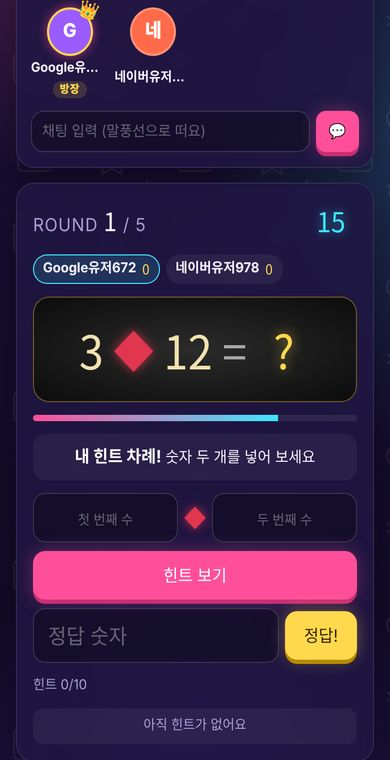
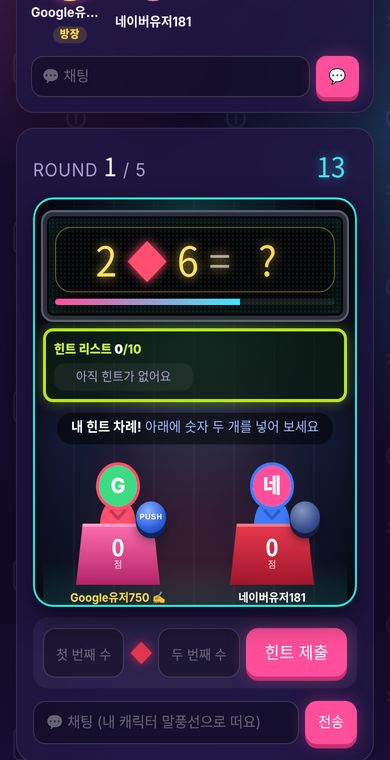
미스터리 사인: 세트장 구조 재구성 (전광판·힌트리스트·단상·버저 5초 정답창·10초 잠금·채팅)
Claude-Session: https://claude.ai/code/session_018kcaK1YQGkv4UBC623yDa1

diff --git a/js/games/mystery.js b/js/games/mystery.js
@@ -5,6 +5,8 @@
 // - 난이도(보통·어려움·너무 어려움)는 라운드마다 무작위
 // - 방장이 정한 라운드(5~10) 후 1등 가넷 3개, 2등 1개
 import { soundEvent } from '../sound.js';
+import { personHtml } from './face.js';
+import { chatFormHtml, bindChat } from './sit.js';
 import { GARNET } from '../profile.js';
 import { getRule, pickRule, pickTarget, apply, LEVELS } from './mystery-rules.js';
 
@@ -13,7 +15,10 @@ const MAX_HINTS = 10;      // 라운드당 최대 힌트 수
 const FINAL_MS = 30000;    // 힌트를 다 쓴 뒤 마지막으로 맞힐 시간
 const REVEAL_MS = 6000;    // 정답 공개 시간
 const REWARDS = [3, 1];    // 1등 가넷 3개, 2등 1개 (1점 이상일 때)
-const MAX_DIGITS = 9;      // 힌트 숫자: 0 ~ 999,999,999 (1억대까지)
+const MAX_DIGITS = 9;
+const BUZZ_MS = 5000;      // 버저를 누른 뒤 정답을 쓸 시간
+const LOCK_MS = 10000;     // 시간 안에 못 쓰면 10초 동안 버저 금지
+const COLORS = ['#ff4f6e', '#3d7bff', '#3ddc84', '#ffb02e'];      // 힌트 숫자: 0 ~ 999,999,999 (1억대까지)
 
 const esc = (s) => String(s ?? '').replace(/[&<>"']/g, (c) => ({ '&': '&amp;', '<': '&lt;', '>': '&gt;', '"': '&quot;', "'": '&#39;' }[c]));
 const SIGN = '<span class="ms-sign">◆</span>';
@@ -34,12 +39,14 @@ function newRound(state, roundNo, now) {
     finalDeadline: 0,
     wrong: [],
     winner: '',
+    buzz: null,
+    locks: {},
     usedRules: [...state.usedRules, rule.id],
   };
 }
 
 function endRound(state, now, winner = '') {
-  return { ...state, phase: 'reveal', winner, revealUntil: now + REVEAL_MS, turnIdx: -1 };
+  return { ...state, buzz: null, phase: 'reveal', winner, revealUntil: now + REVEAL_MS, turnIdx: -1 };
 }
 
 function nextTurn(state, now) {
@@ -55,6 +62,34 @@ export function rank(order, scores) {
       const place = 1 + all.filter((o) => o.score > r.score).length;
       return { ...r, place, garnets: r.score > 0 ? REWARDS[place - 1] || 0 : 0 };
     });
+}
+
+// 버저 정답 창
+let pop = null;
+function buzzPop(buzz, sendMove) {
+  if (typeof document === 'undefined') return;
+  if (!buzz) { if (pop) { pop.el.remove(); clearInterval(pop.iv); pop = null; } return; }
+  if (pop && pop.at === buzz.at) return;
+  pop?.el.remove(); clearInterval(pop?.iv);
+  const $p = document.createElement('div');
+  $p.className = 'ms-pop';
+  $p.innerHTML = `<form class="ms-popbox"><div class="ms-poph">🚨 정답을 입력하세요!</div>
+    <div class="ms-popt"><b data-pt>5</b><div class="nb-bar"><i data-pb></i></div></div>
+    <input inputmode="numeric" placeholder="정답 숫자" autocomplete="off" enterkeyhint="send">
+    <button class="btn gold-btn block">정답!</button></form>`;
+  document.body.appendChild($p);
+  pop = { at: buzz.at, el: $p, iv: 0 };
+  const $in = $p.querySelector('input');
+  setTimeout(() => $in.focus({ preventScroll: true }), 30);
+  $in.oninput = () => { $in.value = $in.value.replace(/[^0-9-]/g, ''); };
+  let done = false;
+  $p.querySelector('form').onsubmit = (e) => { e.preventDefault(); const v = $in.value.trim(); if (!v || done) return; done = true; sendMove({ type: 'answer', n: v }); };
+  const $t = $p.querySelector('[data-pt]'), $b = $p.querySelector('[data-pb]');
+  pop.iv = setInterval(() => {
+    const left = Math.max(0, buzz.until - Date.now());
+    $t.textContent = Math.ceil(left / 1000); $b.style.width = `${(left / BUZZ_MS) * 100}%`;
+    if (left <= 0 && !done) { done = true; clearInterval(pop?.iv); $p.remove(); pop = null; sendMove({ type: 'buzzout' }, { silent: true }); }
+  }, 100);
 }
 
 // 다시 그려도 입력하던 값과 커서가 유지되도록
@@ -77,7 +112,8 @@ export default {
   rules: [
     '라운드마다 "X ◆ Y = ?" 문제가 나와요. ◆는 숨겨진 규칙이에요.',
     `차례가 되면 숫자 두 개(0 ~ 999,999,999)를 입력해요. 그 숫자에 ◆를 적용한 결과가 모두에게 힌트로 공개돼요. (차례당 ${HINT_MS / 1000}초)`,
-    '정답은 자기 차례가 아니어도 언제든 낼 수 있어요.',
+    '정답은 자기 차례가 아니어도 언제든 낼 수 있어요. 내 단상의 버저를 누르면 5초 동안 정답을 쓸 수 있어요. (한 번에 한 명만)',
+    '5초 안에 정답을 내지 못하면 10초 동안 버저를 누를 수 없어요.',
     '정답 +1점, 오답 −1점! 틀려도 그 라운드에서 다시 도전할 수 있어요.',
     '문제 난이도(보통 · 어려움 · 너무 어려움)는 라운드마다 무작위로 나와요.',
     `힌트가 ${MAX_HINTS}개 나온 뒤 ${FINAL_MS / 1000}초 안에 아무도 못 맞히면 라운드가 끝나요.`,
@@ -109,8 +145,23 @@ export default {
       return { state: nextTurn(next, now) };
     }
 
+    const buzzLive = state.buzz && now < state.buzz.until + 800;
+    if (move?.type === 'buzz') {
+      if (state.phase !== 'play' || !state.order.includes(uid)) throw new Error('지금은 버저를 누를 수 없어요');
+      if (buzzLive) throw new Error(state.buzz.uid === uid ? '__noop' : '다른 사람이 먼저 눌렀어요!');
+      if ((state.locks?.[uid] || 0) > now) throw new Error(`${Math.ceil((state.locks[uid] - now) / 1000)}초 뒤에 다시 누를 수 있어요`);
+      return { state: { ...state, buzz: { uid, at: now, until: now + BUZZ_MS } } };
+    }
+    if (move?.type === 'buzzout') {
+      // 시간 초과: 창을 닫고 10초 동안 버저 금지
+      if (!state.buzz || (state.buzz.uid !== uid && now < state.buzz.until + 1500)) throw new Error('__noop');
+      if (state.buzz.uid === uid && now < state.buzz.until - 300) throw new Error('__noop');
+      return { state: { ...state, buzz: null, locks: { ...state.locks, [state.buzz.uid]: now + LOCK_MS } } };
+    }
+
     if (move?.type === 'answer') {
       if (state.phase !== 'play') throw new Error('지금은 정답을 낼 수 없어요');
+      if (!buzzLive || state.buzz.uid !== uid) throw new Error('버저를 먼저 눌러 주세요');
       const raw = String(move.n ?? '').trim();
       if (!/^-?\d{1,30}$/.test(raw)) throw new Error('숫자를 입력해 주세요');
       const n = BigInt(raw).toString();
@@ -120,11 +171,12 @@ export default {
         return { state: endRound({ ...state, scores }, now, uid) };
       }
       scores[uid] -= 1; // 틀려도 라운드는 잠기지 않아요
-      return { state: { ...state, scores, wrong: [...state.wrong, { uid, n, t: Date.now() }].slice(-6) } };
+      return { state: { ...state, buzz: null, scores, wrong: [...state.wrong, { uid, n, t: Date.now() }].slice(-6) } };
     }
 
     if (move?.type === 'tick') {
       if (state.phase === 'play') {
+        if (state.buzz && now >= state.buzz.until + 1500) return { state: { ...state, buzz: null, locks: { ...state.locks, [state.buzz.uid]: now + LOCK_MS } } };
         if (state.turnIdx >= 0 && now >= state.turnDeadline) {
           return { state: { ...state, turnIdx: (state.turnIdx + 1) % state.order.length, turnDeadline: now + HINT_MS } };
         }
@@ -181,63 +233,76 @@ export default {
     }
 
     const rule = getRule(state.ruleId);
-    const scoreChips = state.order.map((u) => `
-      <span class="ms-chip ${u === me ? 'me' : ''} ${u === turnUid ? 'turn' : ''}">
-        <b>${name(u)}</b><i>${state.scores[u]}</i>
-      </span>`).join('');
+    const now0 = Date.now();
+    const buzz = state.buzz && now0 < state.buzz.until + 800 ? state.buzz : null;
+    if (room && buzz) soundEvent(room.code, `ms:bz:${buzz.at}`, 'buzzer');
 
     let status = '';
-    if (state.phase === 'reveal') {
-      status = state.winner
-        ? `<b>${name(state.winner)}</b>님 정답! <span class="gold">+1점</span>`
-        : '아무도 맞히지 못했어요';
-    } else if (state.turnIdx < 0) {
-      status = '힌트를 모두 썼어요! 마지막으로 정답을 맞혀 보세요';
-    } else {
-      status = myTurn ? '<b>내 힌트 차례!</b> 숫자 두 개를 넣어 보세요' : `<b>${name(turnUid)}</b>님이 힌트를 고르는 중…`;
-    }
+    if (state.phase === 'reveal') status = state.winner ? `<b>${name(state.winner)}</b>님 정답! <span class="gold">+1점</span>` : '아무도 맞히지 못했어요';
+    else if (buzz) status = `🚨 <b>${name(buzz.uid)}</b>님이 버저를 눌렀어요!`;
+    else if (state.turnIdx < 0) status = '힌트를 모두 썼어요! 버저를 눌러 정답을 맞혀 보세요';
+    else status = myTurn ? '<b>내 힌트 차례!</b> 아래에 숫자 두 개를 넣어 보세요' : `<b>${name(turnUid)}</b>님이 힌트를 제출하고 있습니다`;
+
+    const lastWrong = state.wrong[state.wrong.length - 1];
+    const podium = (u, i) => {
+      const lock = Math.max(0, (state.locks?.[u] || 0) - now0);
+      const mine = u === me && isPlayer && state.phase === 'play';
+      const can = mine && !buzz && !lock;
+      const wrongNow = lastWrong && lastWrong.uid === u && now0 - lastWrong.t < 2500;
+      return `<div class="ms-p ${u === me ? 'me' : ''} ${u === turnUid ? 'turn' : ''} ${buzz?.uid === u ? 'buzzing' : ''} ${state.winner === u && state.phase === 'reveal' ? 'win' : ''}">
+        <span class="seat-bubble" data-bub="${esc(u)}"></span>
+        <div class="ms-person">${personHtml(COLORS[i % COLORS.length], players[u] || { name: '?' })}</div>
+        <div class="ms-podium"><b>${state.scores[u]}</b><small>점</small>${wrongNow ? '<em class="ms-x">✖ 오답</em>' : ''}</div>
+        <button class="ms-buzzer ${can ? 'can' : ''} ${buzz?.uid === u ? 'on' : ''} ${lock ? 'lock' : ''}" ${mine ? 'data-buzz' : 'disabled tabindex="-1"'} aria-label="버저">
+          <i></i>${lock && mine ? `<small data-lock="${state.locks[u]}">${Math.ceil(lock / 1000)}</small>` : can ? '<small>PUSH</small>' : ''}
+        </button>
+        <span class="ms-nm">${name(u)}${u === turnUid ? ' <em>✍</em>' : ''}</span>
+      </div>`;
+    };
 
     el.innerHTML = `
-      <div class="ms">
+      <div class="ms ms2">
         <div class="nb-top">
           <span class="nb-round">ROUND <b>${state.round}</b> / ${state.rounds}</span>
           <span class="nb-timer" data-timer></span>
         </div>
-        <div class="ms-chips">${scoreChips}</div>
-
-        <div class="ms-problem">
-          <span>${state.target[0]}</span>${SIGN}<span>${state.target[1]}</span><span class="ms-eq">=</span>
-          <span class="ms-q ${state.phase === 'reveal' ? 'open' : ''}">${state.phase === 'reveal' ? state.answer : '?'}</span>
+        <div class="ms-set">
+          <div class="ms-top">
+            <div class="ms-screen">
+              <div class="ms-problem">
+                <span>${state.target[0]}</span>${SIGN}<span>${state.target[1]}</span><span class="ms-eq">=</span>
+                <span class="ms-q ${state.phase === 'reveal' ? 'open' : ''}">${state.phase === 'reveal' ? state.answer : '?'}</span>
+              </div>
+              ${state.phase === 'reveal' ? `<div class="ms-rule"><span class="ms-level lv${rule?.level}">${LEVELS[rule?.level] || ''}</span> ◆ = ${esc(rule?.desc || '')}</div>` : ''}
+              <div class="nb-bar"><i data-bar></i></div>
+            </div>
+            <div class="ms-hintbox">
+              <div class="ms-hints-title">힌트 리스트 <b>${state.hints.length}</b>/${MAX_HINTS}</div>
+              <ul class="ms-hints">
+                ${state.hints.length ? state.hints.slice().reverse().map((h) => `
+                  <li><span class="ms-eqn">${h.a} ${SIGN} ${h.b} = <b>${h.c}</b></span><small>${name(h.by)}</small></li>`).join('')
+                  : '<li class="empty">아직 힌트가 없어요</li>'}
+              </ul>
+            </div>
+          </div>
+          <div class="ms-status">${status}</div>
+          <div class="ms-stage n${state.order.length}">${state.order.map(podium).join('')}</div>
         </div>
-        ${state.phase === 'reveal' ? `<div class="ms-rule"><span class="ms-level lv${rule?.level}">${LEVELS[rule?.level] || ''}</span> ◆ = ${esc(rule?.desc || '')}</div>` : ''}
-
-        <div class="nb-bar"><i data-bar></i></div>
-        <div class="nb-banner"><span>${status}</span></div>
 
         ${isPlayer && state.phase === 'play' ? `
-          <div class="ms-actions">
-            ${myTurn ? `
-              <form class="ms-hint" data-form="hint">
-                <div class="ms-hint-row">
-                  <input data-key="ha" inputmode="numeric" maxlength="${MAX_DIGITS}" placeholder="첫 번째 수" aria-label="첫 번째 숫자">
-                  ${SIGN}
-                  <input data-key="hb" inputmode="numeric" maxlength="${MAX_DIGITS}" placeholder="두 번째 수" aria-label="두 번째 숫자">
-                </div>
-                <button class="btn primary block">힌트 보기</button>
-              </form>` : ''}
-            <form class="ms-answer" data-form="answer">
-              <input data-key="ans" inputmode="numeric" placeholder="정답 숫자" aria-label="정답">
-              <button class="btn gold-btn">정답!</button>
-            </form>
-          </div>` : ''}
-
-        <div class="ms-hints-title">힌트 ${state.hints.length}/${MAX_HINTS}${state.wrong.length ? ` · <span class="nb-dupe">오답: ${state.wrong.map((w) => `${name(w.uid)} ${esc(w.n)}`).join(', ')}</span>` : ''}</div>
-        <ul class="ms-hints">
-          ${state.hints.length ? state.hints.slice().reverse().map((h) => `
-            <li><span class="ms-eqn">${h.a} ${SIGN} ${h.b} = <b>${h.c}</b></span><small>${name(h.by)}</small></li>`).join('')
-            : '<li class="empty">아직 힌트가 없어요</li>'}
-        </ul>
+          <form class="ms-hint ${myTurn ? '' : 'off'}" data-form="hint">
+            <div class="ms-hint-row">
+              <input data-key="ha" inputmode="numeric" maxlength="${MAX_DIGITS}" placeholder="첫 번째 수" aria-label="첫 번째 숫자" ${myTurn ? '' : 'disabled'}>
+              ${SIGN}
+              <input data-key="hb" inputmode="numeric" maxlength="${MAX_DIGITS}" placeholder="두 번째 수" aria-label="두 번째 숫자" ${myTurn ? '' : 'disabled'}>
+              <button class="btn primary" ${myTurn ? '' : 'disabled'}>힌트 제출</button>
+            </div>
+            ${myTurn ? '' : `<small>${turnUid ? `${name(turnUid)}님의 힌트 차례예요` : '힌트를 모두 썼어요'}</small>`}
+          </form>` : ''}
+        ${state.wrong.length ? `<div class="ms-wrongs">오답: ${state.wrong.map((w) => `${name(w.uid)} ${esc(w.n)}`).join(' · ')}</div>` : ''}
+        ${isPlayer ? chatFormHtml() : ''}
       </div>`;
+    bindChat(el);
 
     // 입력값·커서 유지
     el.querySelectorAll('[data-key]').forEach((inp) => {
@@ -245,32 +310,28 @@ export default {
       if (drafts[k] !== undefined) inp.value = drafts[k];
       inp.oninput = () => { inp.value = inp.value.replace(/[^0-9-]/g, ''); drafts[k] = inp.value; };
       inp.onfocus = () => { focusKey = k; };
-      // 화면이 다시 그려져서 사라진 경우가 아니라, 직접 다른 곳을 눌렀을 때만 포커스 기억을 지워요
       inp.onblur = () => setTimeout(() => { if (inp.isConnected && focusKey === k) focusKey = ''; }, 0);
       if (focusKey === k && !inp.disabled) inp.focus();
     });
-
     const $hint = el.querySelector('[data-form="hint"]');
     if ($hint) {
       $hint.onsubmit = (e) => {
         e.preventDefault();
         const a = $hint.querySelector('[data-key="ha"]').value.trim();
         const b = $hint.querySelector('[data-key="hb"]').value.trim();
-        if (a === '' || b === '') return;
+        if (!myTurn || a === '' || b === '') return;
         delete drafts[`${key}:ha`]; delete drafts[`${key}:hb`];
         sendMove({ type: 'hint', a, b });
       };
     }
-    const $ans = el.querySelector('[data-form="answer"]');
-    if ($ans) {
-      $ans.onsubmit = (e) => {
-        e.preventDefault();
-        const v = $ans.querySelector('[data-key="ans"]').value.trim();
-        if (v === '') return;
-        delete drafts[`${key}:ans`];
-        sendMove({ type: 'answer', n: v });
-      };
-    }
+    const $bz = el.querySelector('[data-buzz]');
+    if ($bz) $bz.onclick = () => { if ($bz.classList.contains('can')) sendMove({ type: 'buzz' }); };
+    // 잠금 숫자 줄이기
+    const $lk = el.querySelector('[data-lock]');
+    if ($lk) { const iv = setInterval(() => { if (!$lk.isConnected) return clearInterval(iv); const l = Number($lk.dataset.lock) - Date.now(); if (l <= 0) { clearInterval(iv); this.render(el, arguments[1]); } else $lk.textContent = Math.ceil(l / 1000); }, 250); }
+
+    // 정답 창 (버저 누른 사람에게만, 5초)
+    buzzPop(buzz && buzz.uid === me && state.phase === 'play' ? buzz : null, sendMove);
 
     // 타이머 + 진행 신호
     const $t = el.querySelector('[data-timer]');

diff --git a/css/style.css b/css/style.css
@@ -3405,3 +3405,77 @@ button.dr-seat { cursor: pointer; } button.dr-seat:hover .sit-face { box-shadow:
   .dr-resboard .dr-board { height: 62dvh; width: auto; max-width: none; }
   .dr-tool { height: 50px; } .dr-tool img { width: 30px; height: 30px; }
 }
+
+/* ───────── 미스터리 사인 v2: 서바이벌 세트장 ───────── */
+.ms2 { gap: 10px; }
+.ms-set { position: relative; display: grid; gap: 10px; padding: 14px 10px 0; border-radius: 20px; overflow: hidden;
+  background: radial-gradient(ellipse at 50% 0%, rgba(46, 230, 214, .25), transparent 55%), radial-gradient(ellipse at 50% 120%, rgba(255, 79, 110, .25), transparent 60%),
+    repeating-linear-gradient(90deg, rgba(255, 255, 255, .03) 0 2px, transparent 2px 40px), linear-gradient(180deg, #0a0d1c, #141a33 60%, #0b0e1d);
+  box-shadow: inset 0 0 0 2px #2ee6d6, inset 0 0 40px rgba(0, 0, 0, .7), 0 12px 28px rgba(0, 0, 0, .5); }
+.ms-top { display: grid; grid-template-columns: minmax(0, 1.5fr) minmax(0, 1fr); gap: 8px; align-items: stretch; }
+.ms-screen { display: grid; gap: 6px; align-content: center; padding: 10px 8px; border-radius: 10px; background: #050608; border: 4px solid #2b2f3c;
+  box-shadow: inset 0 0 0 2px #000, inset 0 0 22px rgba(46, 230, 214, .18), 0 0 0 2px #5a6070, 0 6px 14px rgba(0, 0, 0, .6);
+  background-image: radial-gradient(rgba(255, 255, 255, .06) 1px, transparent 1.2px); background-size: 4px 4px; }
+.ms2 .ms-problem { margin: 0; padding: 0; background: none; box-shadow: none; font-size: clamp(24px, 8vw, 46px); color: #ffe26a; text-shadow: 0 0 10px rgba(255, 210, 60, .8); justify-content: center; flex-wrap: wrap; }
+.ms2 .ms-problem .ms-sign { color: #ff4f6e; text-shadow: 0 0 10px #ff4f6e; }
+.ms2 .ms-rule { font-size: 12px; text-align: center; color: #cfe; }
+.ms-hintbox { display: grid; grid-template-rows: auto 1fr; min-height: 0; max-height: 190px; padding: 8px; border-radius: 10px; background: rgba(10, 30, 8, .6); border: 3px solid #b6e51d; box-shadow: 0 0 12px rgba(182, 229, 29, .35); }
+.ms-hintbox .ms-hints-title { margin: 0 0 4px; font-size: 12px; color: #c8f04a; font-weight: 800; }
+.ms-hintbox .ms-hints-title b { color: #fff; }
+.ms-hintbox .ms-hints { overflow: auto; margin: 0; gap: 4px; }
+.ms-hintbox .ms-hints li { padding: 4px 6px; font-size: 12px; flex-wrap: wrap; gap: 2px 6px; }
+.ms-hintbox .ms-hints li small { font-size: 10px; }
+.ms-status { justify-self: center; padding: 5px 14px; border-radius: 99px; background: rgba(0, 0, 0, .5); font-size: 13px; color: #9fb8ff; text-align: center; }
+.ms-status b { color: #fff; }
+.ms-stage { display: grid; grid-auto-flow: column; grid-auto-columns: 1fr; gap: 4px; align-items: end; padding: 8px 0 0; background: linear-gradient(180deg, transparent 70%, rgba(46, 230, 214, .15)); }
+.ms-p { position: relative; display: grid; grid-template-columns: 1fr auto; grid-template-areas: 'man bz' 'pod bz' 'nm nm'; align-items: end; justify-items: center; min-width: 0; }
+.ms-person { grid-area: man; width: 64px; margin-bottom: -12px; position: relative; z-index: 1; }
+.ms-person .pc { width: 100%; }
+.ms-podium { grid-area: pod; position: relative; z-index: 2; width: 100%; max-width: 78px; height: 58px; display: grid; place-content: center; justify-items: center; clip-path: polygon(8% 0, 92% 0, 100% 100%, 0 100%);
+  background: linear-gradient(180deg, #e8394f, #a0172c); box-shadow: inset 0 3px 0 rgba(255, 255, 255, .35); color: #fff; }
+.ms-p.me .ms-podium { background: linear-gradient(180deg, #ff6fae, #b3246a); }
+.ms-p.win .ms-podium { background: linear-gradient(180deg, #ffd84d, #d18b0a); color: #3a2400; }
+.ms-podium b { font-family: var(--logo); font-size: 22px; line-height: 1; } .ms-podium small { font-size: 9px; opacity: .8; }
+.ms-x { position: absolute; top: -18px; font-style: normal; font-size: 11px; font-weight: 900; color: #ff4f6e; text-shadow: 0 0 6px #000; animation: skxPop .3s; }
+.ms-buzzer { grid-area: bz; appearance: none; border: 0; padding: 0; background: none; position: relative; width: 38px; height: 38px; margin: 0 0 10px 2px; display: grid; place-items: center; cursor: default; }
+.ms-buzzer i { position: absolute; inset: 0; border-radius: 50%; background: radial-gradient(circle at 40% 30%, #8fb2ff, #2f5fe0 60%, #183a9a); box-shadow: 0 5px 0 #0f245e, 0 7px 10px rgba(0, 0, 0, .5); transition: transform .08s, box-shadow .08s; }
+.ms-buzzer small { position: relative; z-index: 1; font-size: 8.5px; font-weight: 900; color: #fff; letter-spacing: .5px; }
+.ms-buzzer.can { cursor: pointer; } .ms-buzzer.can i { animation: msPush 1s infinite; }
+@keyframes msPush { 50% { box-shadow: 0 5px 0 #0f245e, 0 0 16px 4px rgba(120, 170, 255, .9); } }
+.ms-buzzer.can:active i { transform: translateY(4px); box-shadow: 0 1px 0 #0f245e; }
+.ms-buzzer.on i { background: radial-gradient(circle at 40% 30%, #fff3a0, #ffcc00 55%, #d18b0a); box-shadow: 0 1px 0 #7a5200, 0 0 24px 8px rgba(255, 210, 0, .9); transform: translateY(4px); }
+.ms-buzzer.lock i { filter: grayscale(1) brightness(.6); }
+.ms-buzzer:not(.can):not(.on):not(.lock) i { filter: saturate(.6) brightness(.85); }
+.ms-nm { grid-area: nm; max-width: 100%; margin-top: 4px; font-size: 11.5px; font-weight: 700; color: #fff; overflow: hidden; text-overflow: ellipsis; white-space: nowrap; }
+.ms-nm em { font-style: normal; }
+.ms-p.turn .ms-nm { color: #ffd84d; }
+.ms-p.buzzing .ms-person { animation: skxHop .4s ease-in-out 3; }
+.ms-p .seat-bubble { bottom: calc(100% - 6px); }
+.ms2 .ms-hint { display: grid; gap: 4px; padding: 10px; border-radius: 14px; background: rgba(255, 255, 255, .05); }
+.ms2 .ms-hint.off { opacity: .55; }
+.ms2 .ms-hint-row { display: grid; grid-template-columns: 1fr auto 1fr auto; gap: 6px; align-items: center; }
+.ms2 .ms-hint-row input { min-width: 0; }
+.ms2 .ms-hint small { font-size: 11.5px; color: var(--muted); text-align: center; }
+.ms-wrongs { font-size: 12px; color: #ff8a9e; text-align: center; }
+.ms-pop { position: fixed; inset: 0; z-index: 9000; display: grid; place-items: center; padding: 14px; background: rgba(5, 3, 14, .7); backdrop-filter: blur(3px); }
+.ms-popbox { width: min(360px, 100%); display: grid; gap: 10px; padding: 18px; border-radius: 18px; background: linear-gradient(180deg, #1b2350, #0d1230); box-shadow: 0 0 0 3px #ffcc00, 0 0 40px rgba(255, 204, 0, .4); animation: skxPop .25s ease-out; }
+.ms-poph { text-align: center; font-size: 20px; font-weight: 900; color: #ffcc00; }
+.ms-popt { display: grid; grid-template-columns: auto 1fr; gap: 10px; align-items: center; } .ms-popt b { font-family: var(--logo); font-size: 28px; color: #fff; }
+.ms-popbox input { padding: 14px; border-radius: 12px; border: 0; font-size: 22px; text-align: center; }
+@media (orientation: landscape) and (max-height: 560px) { .ms-person { width: 54px; } .ms-hintbox { max-height: 150px; } }
+/* 미스터리 사인 v2: 세로 화면 정리 */
+.ms-p { grid-template-columns: minmax(0, 1fr); grid-template-areas: 'man' 'pod' 'nm'; width: 100%; }
+.ms-podium { max-width: 84px; }
+.ms-buzzer { position: absolute; right: max(0px, calc(50% - 56px)); bottom: 26px; z-index: 3; width: 34px; height: 34px; margin: 0; }
+.ms-nm { width: 100%; text-align: center; font-size: 11px; }
+.ms-person { width: 58px; }
+.ms2 .ms-problem { flex-wrap: nowrap; white-space: nowrap; }
+@media (max-width: 600px) {
+  .ms-top { grid-template-columns: 1fr; }
+  .ms-hintbox { max-height: 130px; }
+  .ms-hintbox .ms-hints { display: grid; grid-template-columns: 1fr 1fr; align-content: start; }
+  .ms2 .ms-problem { font-size: clamp(26px, 10vw, 44px); }
+}
+.ms-buzzer { right: max(0px, calc(50% - 48px)); bottom: 70px; width: 30px; height: 30px; }
+.ms-buzzer small { font-size: 7.5px; }
+@media (min-width: 601px) { .ms-buzzer { width: 40px; height: 40px; right: max(0px, calc(50% - 60px)); } .ms-buzzer small { font-size: 9px; } }

diff --git a/js/sound.js b/js/sound.js
@@ -254,7 +254,7 @@ export function soundEvent(roomCode, key, kind) {
   if (seen.has(k)) return;
   seen.add(k);
   if (!primed.has(roomCode)) return;
-  if (kind === 'ok') ding(); else if (kind === 'knock') sfxKnock(); else buzz();
+  if (kind === 'ok') ding(); else if (kind === 'knock') sfxKnock(); else if (kind === 'buzzer') sfxBuzzer(); else buzz();
 }
 
 // ── 보드게임 효과음: 토큰 '딸깍' · 카드 '스윽' ──
@@ -517,4 +517,13 @@ export function sfxKnock() {
     tone(t + d, 180 * p, 0.12, 'sine', 0.35, sfxBus, 0.002);
     tone(t + d, 420 * p, 0.05, 'triangle', 0.12, sfxBus, 0.001);
   });
+}
+
+// 퀴즈쇼 버저 '삐빅!'
+export function sfxBuzzer() {
+  if (!ensure()) return; resume();
+  const t = ctx.currentTime + 0.01;
+  tone(t, 880, 0.12, 'square', 0.09, sfxBus, 0.002);
+  tone(t + 0.13, 1175, 0.22, 'square', 0.09, sfxBus, 0.002);
+  tone(t, 440, 0.35, 'triangle', 0.08, sfxBus, 0.002);
 }

diff --git a/js/config.js b/js/config.js
@@ -1,6 +1,6 @@
 // 앱 이름
 export const APP_NAME = 'O게임';
-export const APP_VERSION = 'v10.59';
+export const APP_VERSION = 'v10.60';
 
 // Firebase 설정 — Firebase 콘솔 > 프로젝트 설정 > 내 앱 에서 복사한 값
 // apiKey를 비우면 "테스트 모드"로 동작합니다
